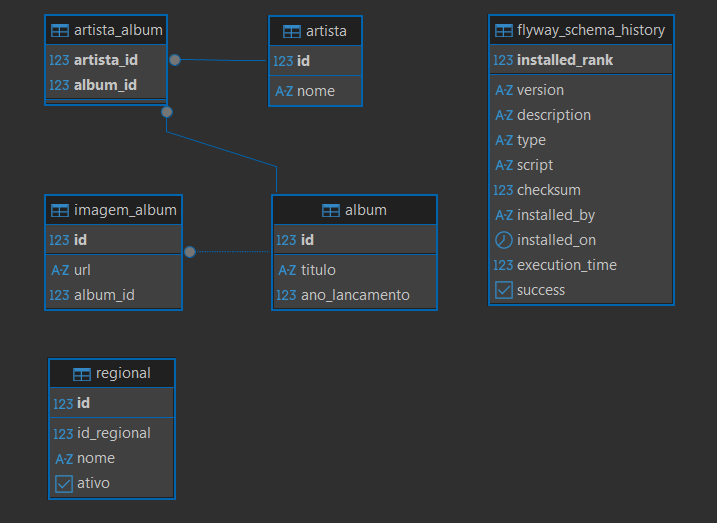
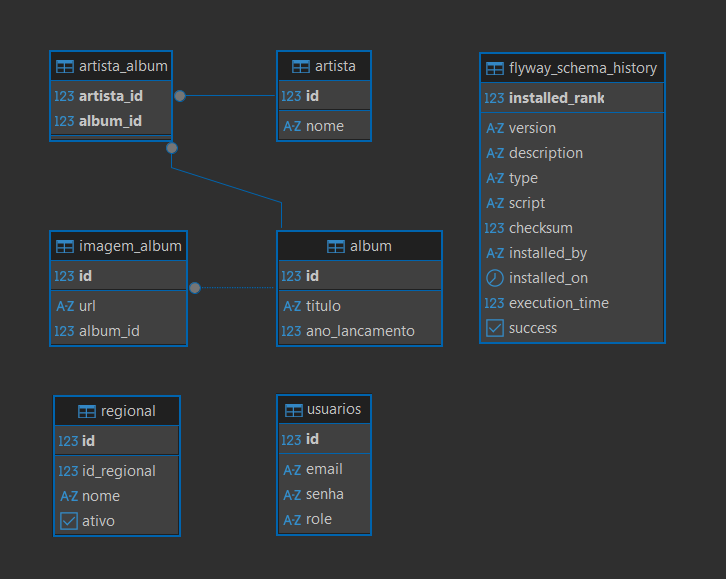
commit atualização do Readme e projeto
- atualizadas informações no Readme.
- atualizada imagem da estrutura do banco de dados.

diff --git a/README.md b/README.md
@@ -27,7 +27,7 @@
 
 ### Requisitos Gerais
 - [ ] **Segurança**: bloquear acesso ao endpoint a partir de domínios fora do domínio do serviço.
-- [ ] **Autenticação JWT**: Com expiração a cada 5 minutos e possibilidade de renovação.
+- [x] **Autenticação JWT**: Com expiração a cada 5 minutos e possibilidade de renovação.
 - [x] **CRUD de Artistas**: Ordenação dinâmica e busca por nome.
 - [x] **CRUD de Álbuns**: Paginação, relacionamento N:N com Artistas.
 - [x] **Upload de Imagens**: Suporte a múltiplas capas por álbum, armazenadas no MinIO.
@@ -58,6 +58,7 @@
 3. **Segurança e Performance**
    - Implementado filtro de **Rate Limit** (10 requisições/min) via Bucket4j, para garantir segurança e disponibilidade do serviço.
    - Criada Whitelist de prefixos que não consomem tokens do bucket (para permitir acesso irrestrito à documentação e arquivos estáticos).
+   - Para evitar possiveis erros ou bloqueios durante os testes, toda a parte de autenticação e segurança foram deixados para serem construidos no final do projeto.
 
 ## 📸 Screenshots
 
